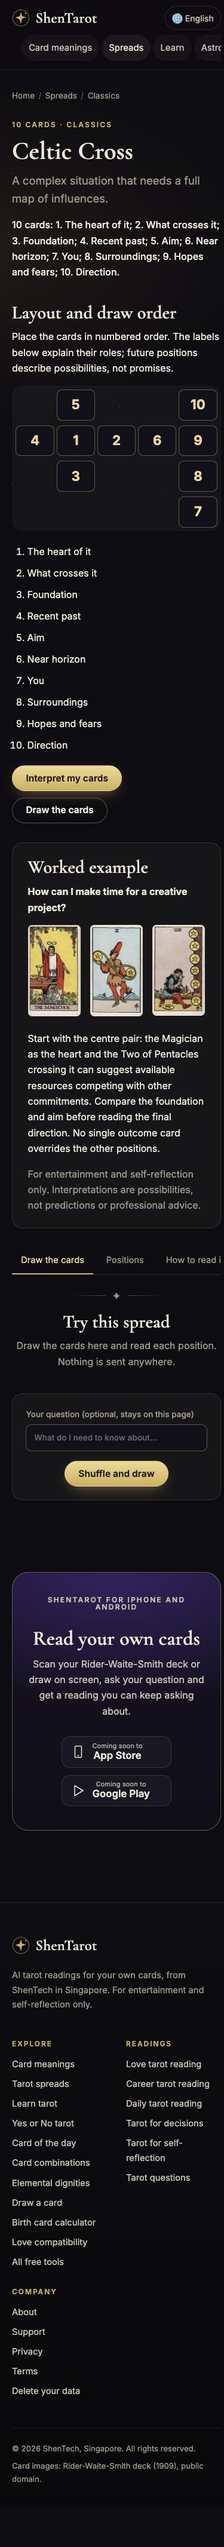
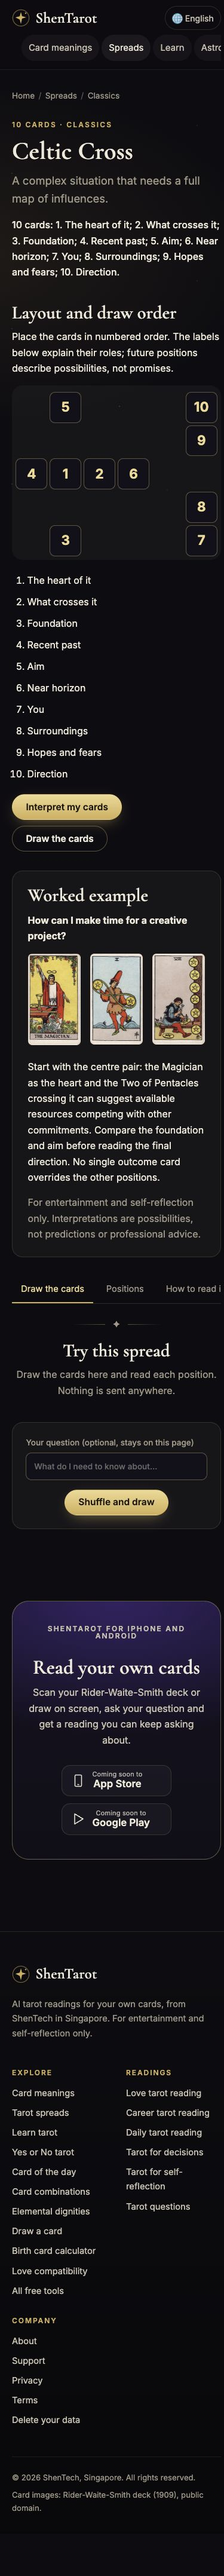
Read website spread diagrams from shared app layouts

diff --git a/web/src/lib/data.ts b/web/src/lib/data.ts
@@ -31,18 +31,23 @@ export const plural = (n: number, word: string) => `${n} ${word}${n === 1 ? "" :
  * (app/lib/data/spreads.dart). The backend's `purpose` text is written for the
  * reading model, not for people, so the site never shows it. Read at build
  * time; builds run from this folder. */
-function readAppSpreads(): Record<string, { blurb: string; source: string }> {
+function readAppSpreads(): Record<string, { blurb: string; source: string; layout: [number, number][] }> {
   const dart = readFileSync(join(process.cwd(), "../app/lib/data/spreads.dart"), "utf8");
   const consts = Object.fromEntries([...dart.matchAll(/^const (_\w+) = '([^']*)';/gm)].map((m) => [m[1], m[2]]));
   const text = (src: string) =>
     src.startsWith("_") ? consts[src]! : [...src.matchAll(/'([^']*)'/g)].map((m) => m[1]).join("");
-  const out: Record<string, { blurb: string; source: string }> = {};
+  const layouts = Object.fromEntries([...dart.matchAll(/const (_\w+) = \[([\s\S]*?)\];/g)].map(m => [m[1], m[2]]));
+  const out: Record<string, { blurb: string; source: string; layout: [number, number][] }> = {};
   for (const block of dart.split("SpreadDef(").slice(1)) {
     const wire = block.match(/wire: '([a-z_]+)'/)?.[1];
     const blurb = block.match(/blurb:\s*((?:'[^']*'\s*)+)/)?.[1];
     const source = block.match(/source:\s*((?:'[^']*'\s*)+|_\w+)/)?.[1];
     if (!wire || !blurb || !source) continue;
-    out[wire] = { blurb: text(blurb), source: text(source) };
+    const layoutSrc = block.match(/layout:\s*(_\w+|\[[\s\S]*?\]),/)?.[1];
+    const layoutText = layoutSrc?.startsWith('_') ? layouts[layoutSrc] : layoutSrc;
+    const layout = [...(layoutText ?? '').matchAll(/Offset\(([\d.]+),\s*([\d.]+)\)/g)].map(m => [Number(m[1]), Number(m[2])] as [number, number]);
+    if (layout.length !== SPREADS[wire as keyof typeof SPREADS].positions.length) throw new Error(`Missing layout for ${wire}`);
+    out[wire] = { blurb: text(blurb), source: text(source), layout };
   }
   for (const id of Object.keys(SPREADS)) {
     if (!out[id]) throw new Error(`No blurb or source for spread ${id} in spreads.dart`);

diff --git a/web/src/styles/site.css b/web/src/styles/site.css
@@ -505,7 +505,7 @@ option { background:var(--bg-2); color:var(--fg); }
 .print-reading { display:none; }
 .spread-guide { margin-bottom:2rem; }
 .spread-diagram { display:grid; grid-template-columns:repeat(auto-fit,minmax(5rem,1fr)); gap:.65rem; padding:1rem; margin:1rem 0; background:var(--surface); border-radius:var(--radius); }
-.spread-map { grid-template-columns:repeat(5,minmax(0,1fr)); }
+.spread-map { grid-template-columns:repeat(var(--diagram-columns,5),minmax(0,1fr)); }
 .diagram-card { min-height:6rem; padding:.65rem .35rem; border:1px solid var(--line-strong); border-radius:9px; text-align:center; background:var(--bg-2); }
 .diagram-card b { display:block; font-size:1.4rem; color:var(--gold-2); }
 .diagram-card span { font-size:.78rem; overflow-wrap:anywhere; }

diff --git a/docs/website-enhancements-verification-2026-10-21.md b/docs/website-enhancements-verification-2026-10-21.md
@@ -6,7 +6,7 @@ Implemented on `feat/website-reader-workspace` in a separate worktree based on `
 
 - Website-led homepage with card search, spread selection and own-card workspace actions; existing artwork and tools retained.
 - All-78-card name/keyword search, common English aliases, suit filters, reversed queries, clear empty-result recovery and short meanings. Card pages have an orientation switch and carry card/orientation into the workspace.
-- Numbered spread diagrams and ordered position keys. Original worked examples for Past/Present/Future, Situation/Challenge/Way Forward and the centre pair of Celtic Cross. The crossing pair is offset in the diagram for legibility; this is a reference layout, not a photo scanner.
+- Numbered spread diagrams sourced from the shared app layout coordinates and ordered position keys. Build validation checks every layout against its position count. Original worked examples for Past/Present/Future, Situation/Challenge/Way Forward and the centre pair of Celtic Cross. Mobile layouts were also checked for Celtic Cross at 390px and Horseshoe at 320px without horizontal overflow. The crossing pair is offset in the diagram for legibility; this is a reference layout, not a photo scanner.
 - Browser-only `/read` workspace: all shared spread definitions, manual card assignment, duplicate prevention, orientation edits, move earlier/later, per-card reference links, optional first impression and reflective comparison prompts. It produces no generated reading.
 - One explicitly labelled browser-local saved reflection; tab-scoped draft recovery; restore, deletion, copy, UTF-8 text export and print/PDF output. No account sync or premium journal entitlement is implied. The original app's journal is untouched.
 - A short beginner practice path using the existing lessons and combinations tool.
